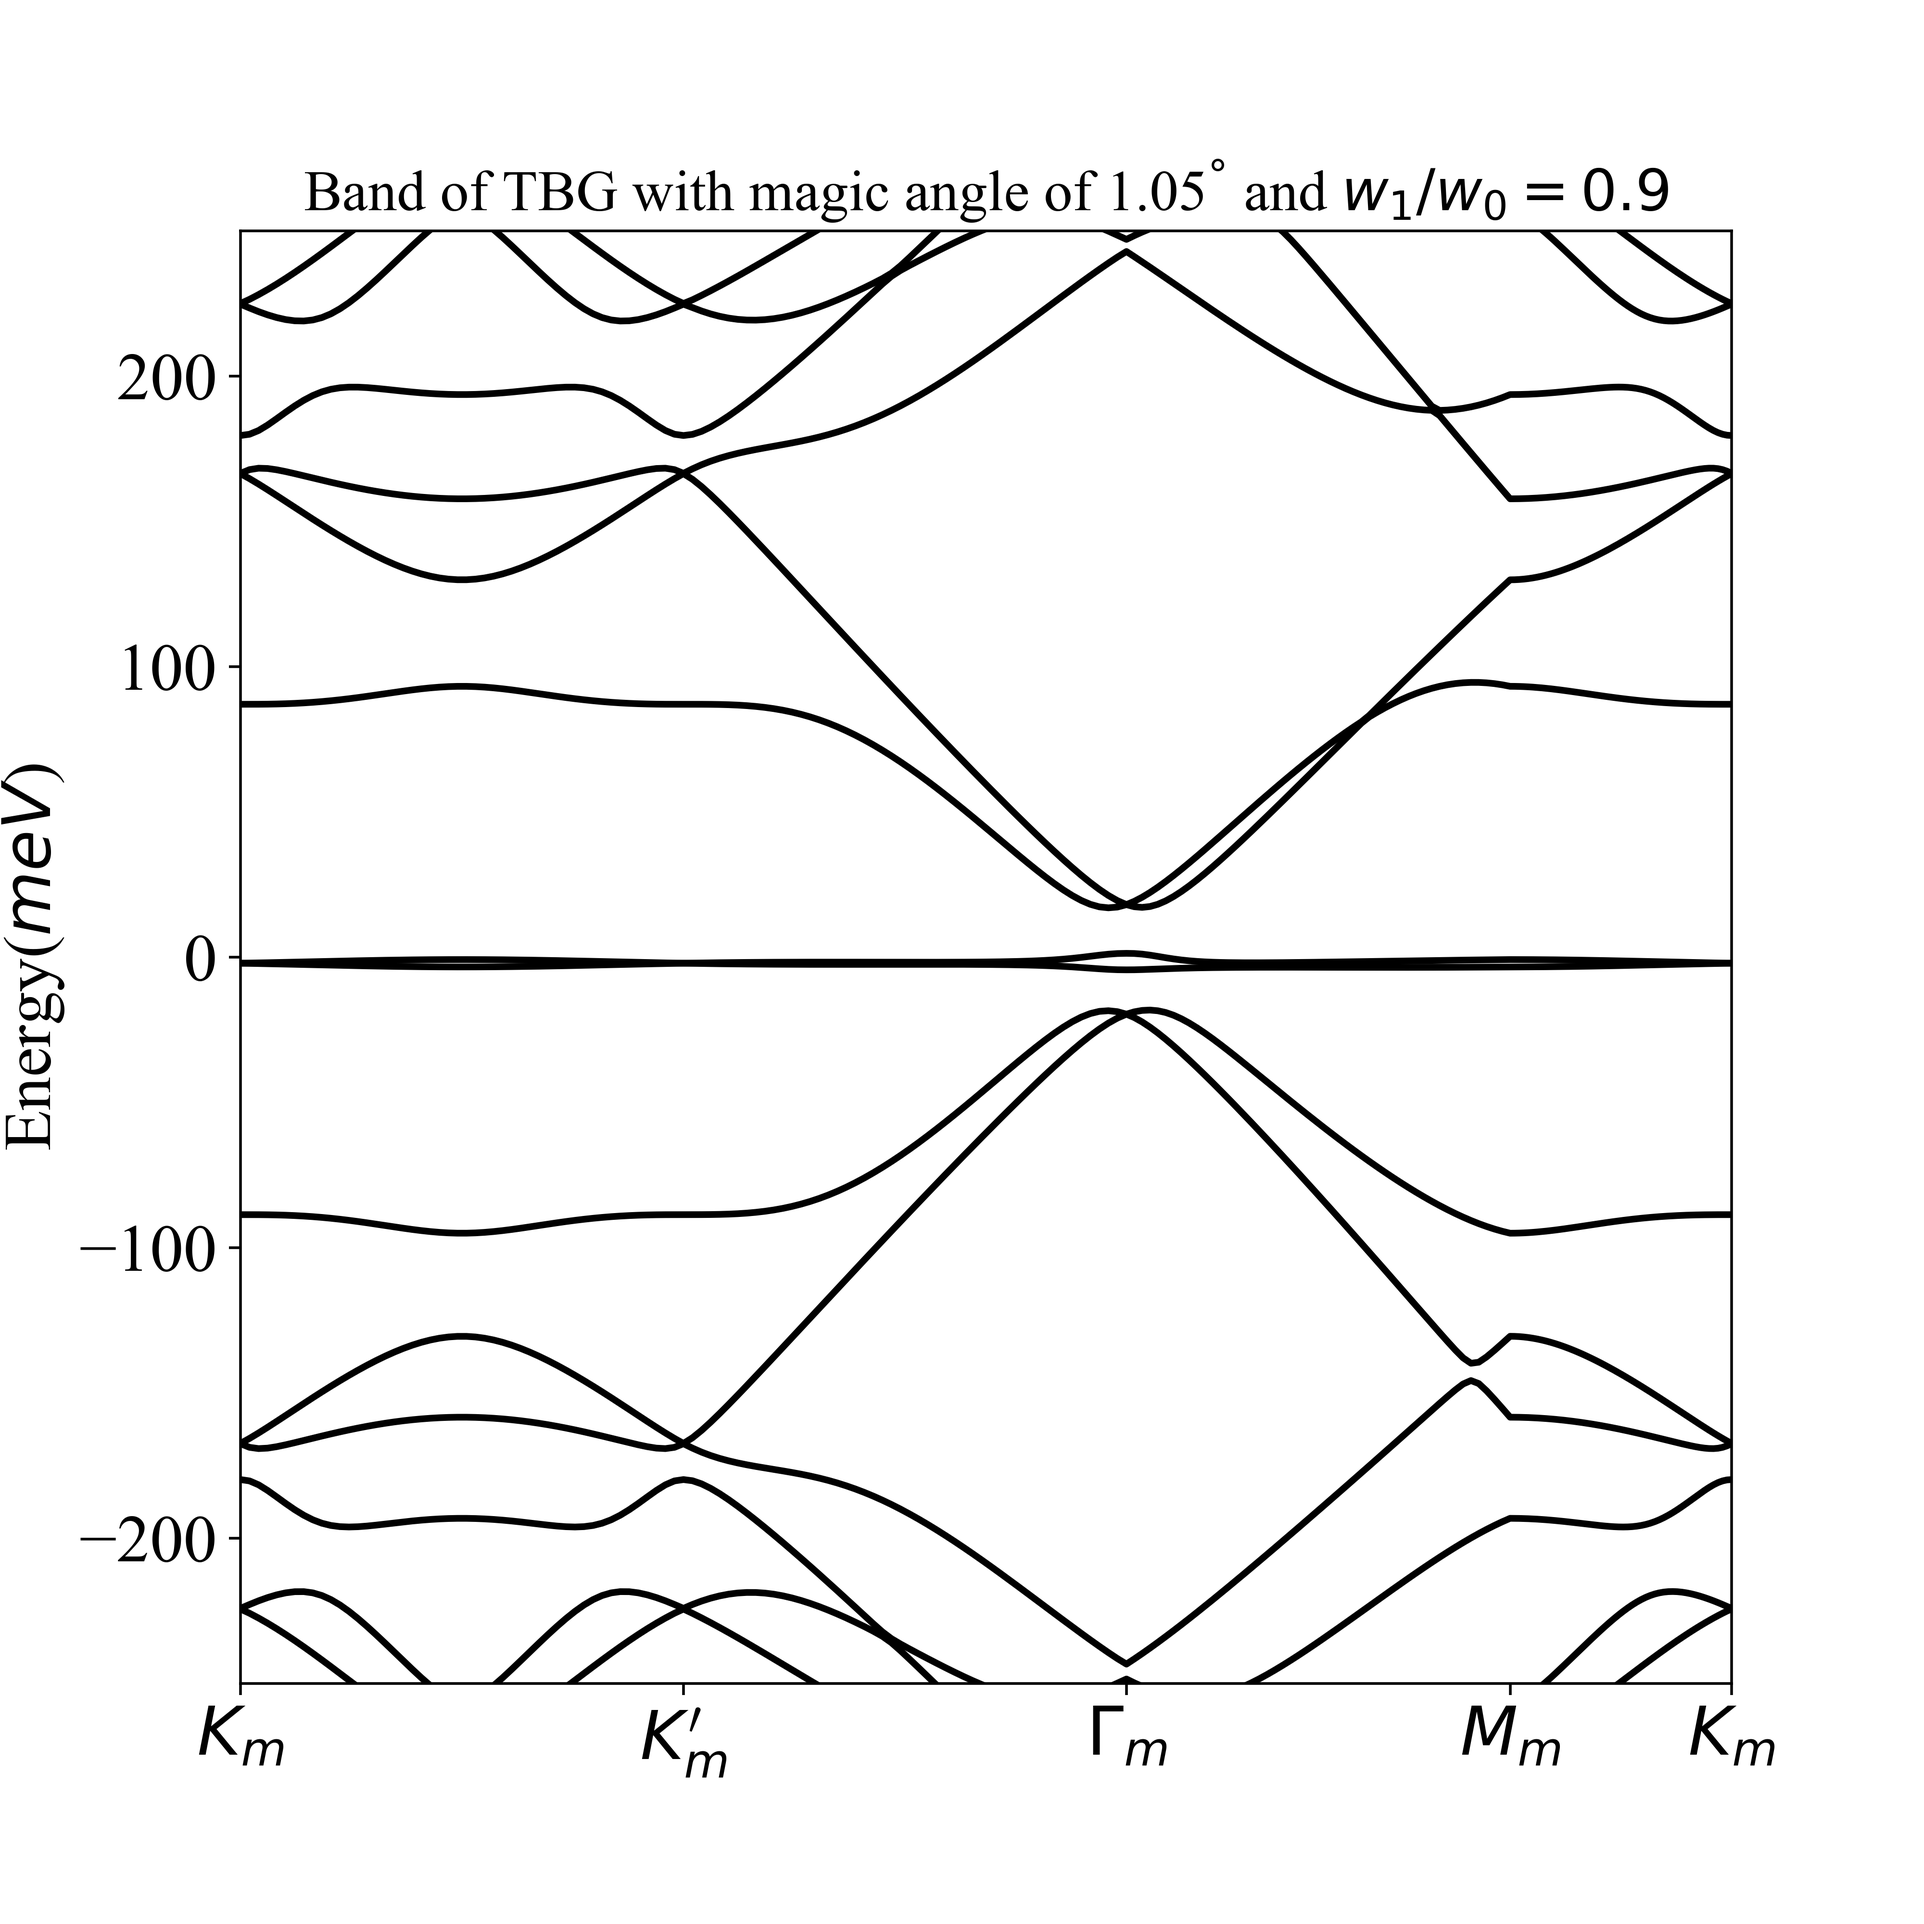
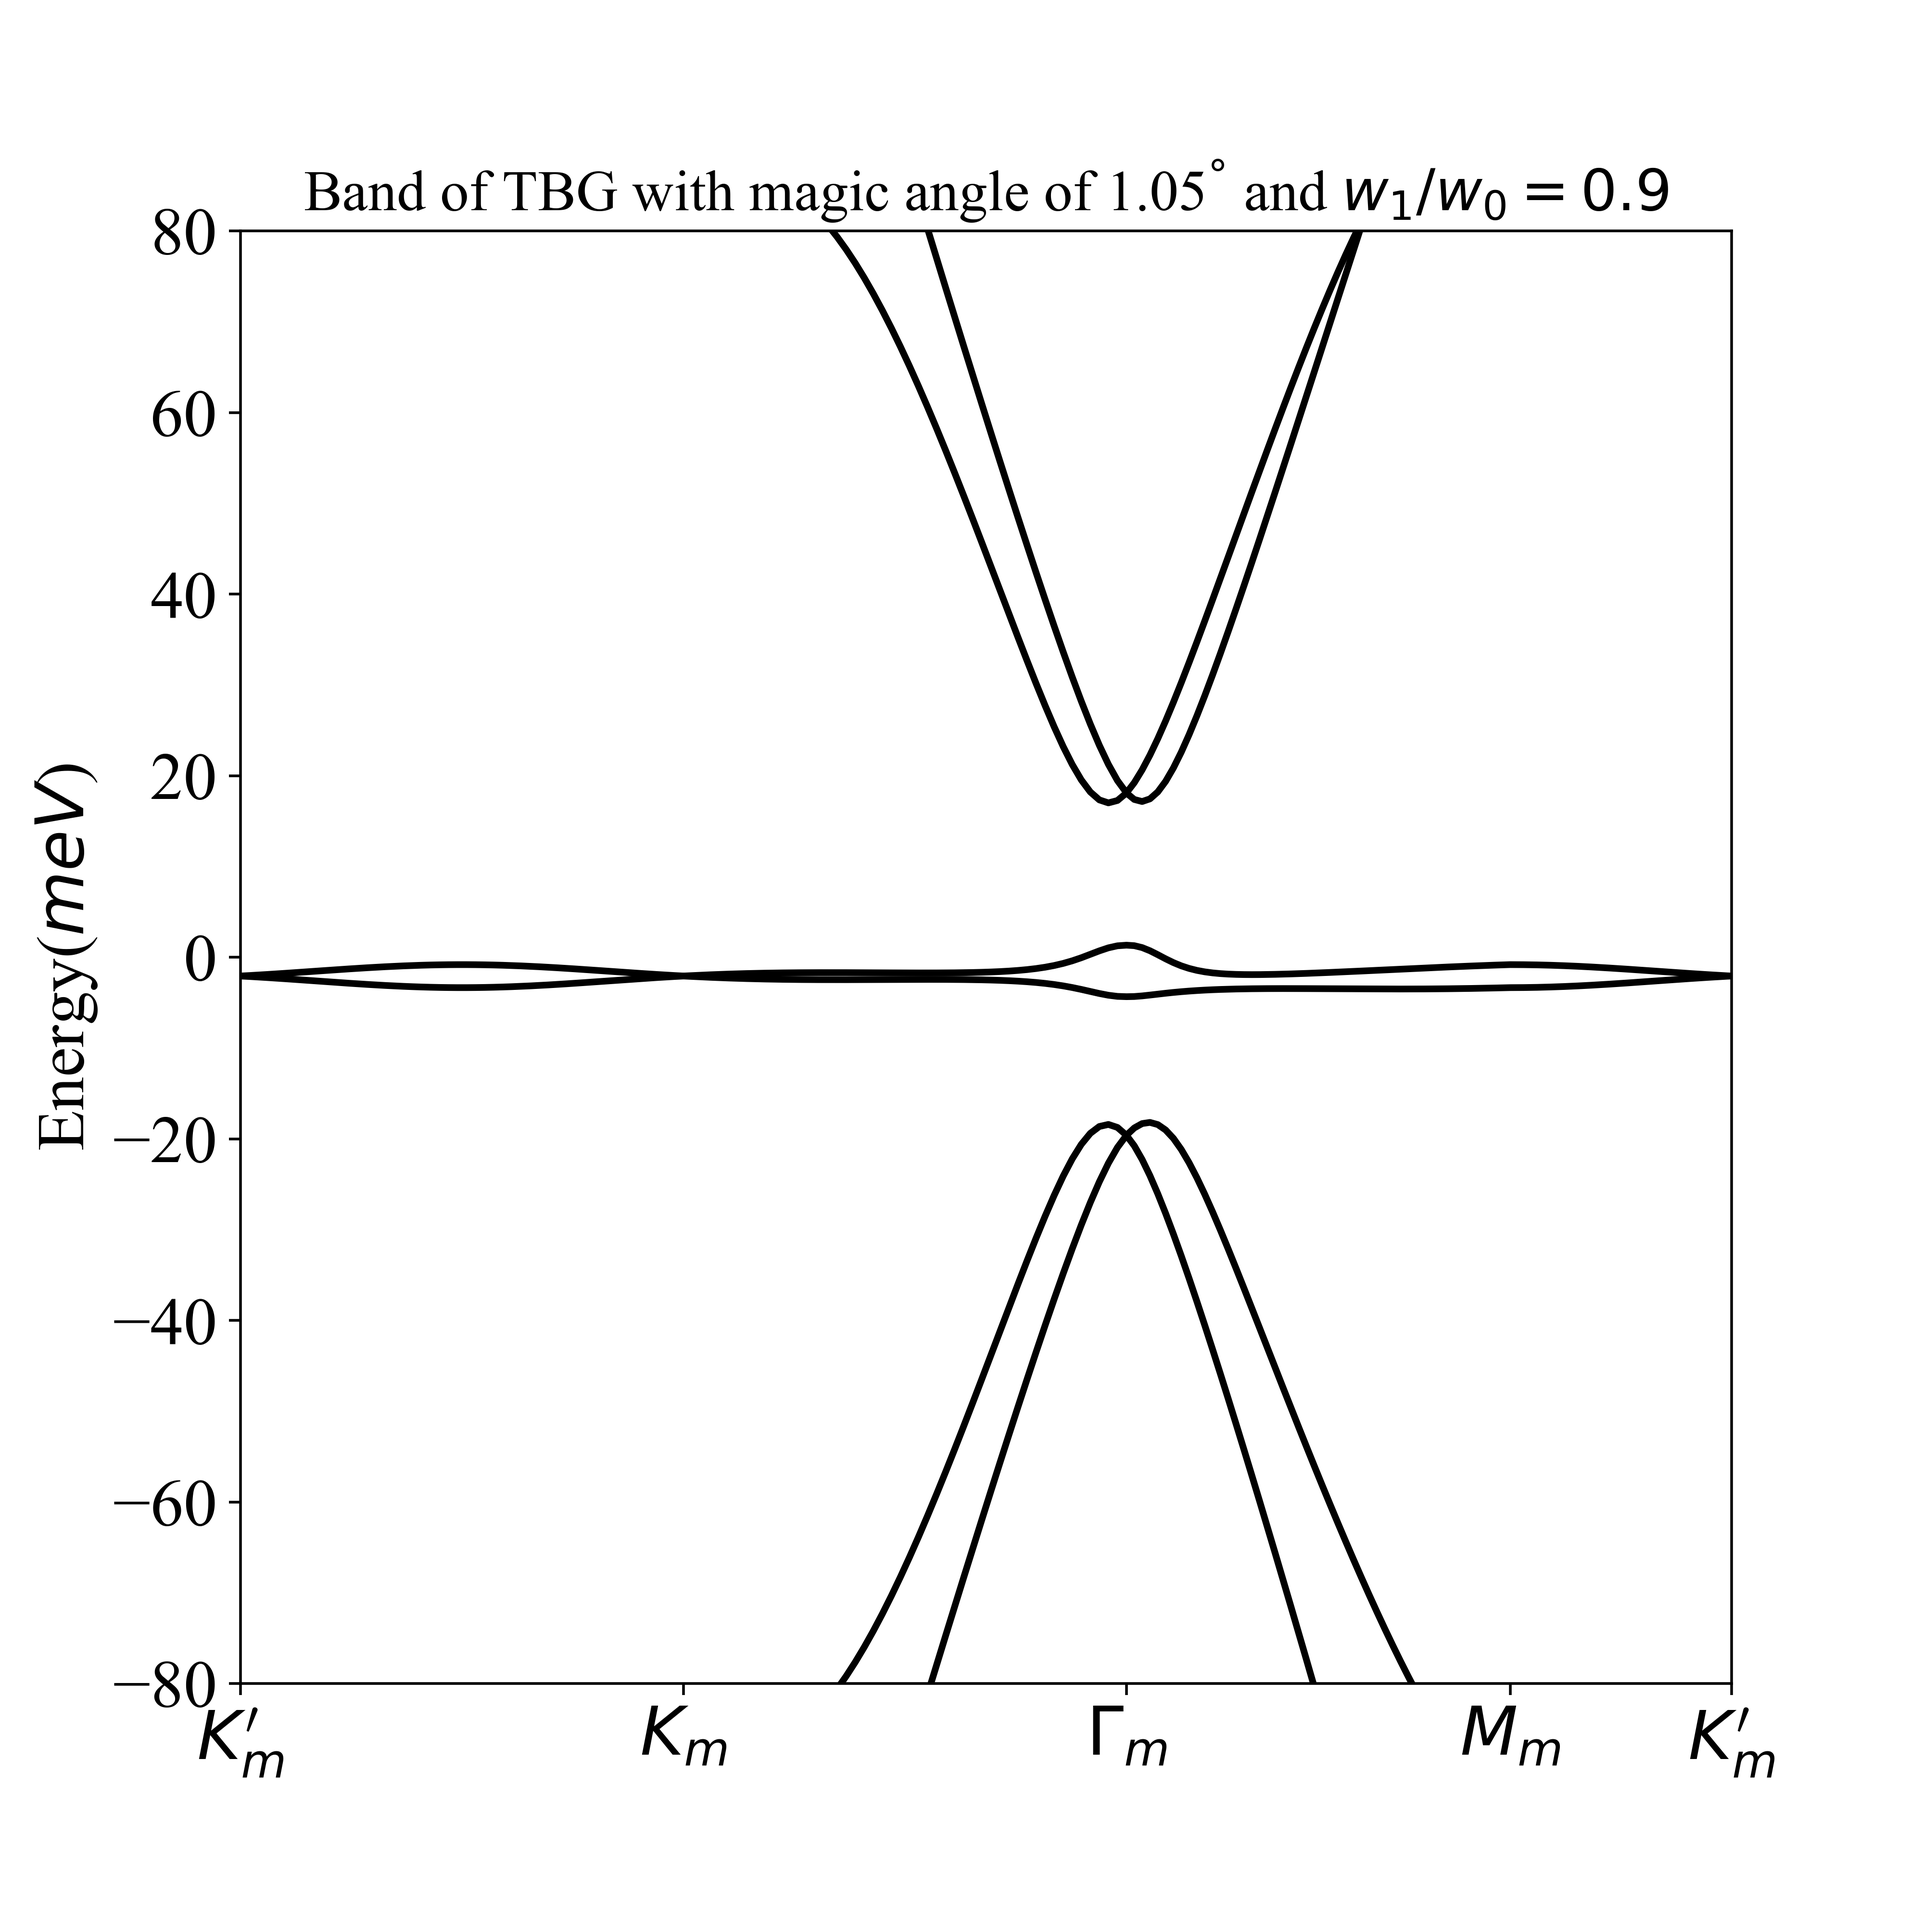
modified plot_band part

diff --git a/plot_band.py b/plot_band.py
@@ -1,6 +1,6 @@
 # -*- coding: utf-8 -*-
 """
-Script for ploting band for MATBG ...
+Module to plot band for MATBG ...
 
 @author: Curry
 """
@@ -8,7 +8,7 @@ Script for ploting band for MATBG ...
 from config import * 
 import numpy as np 
 import matplotlib.pyplot as plt
-from MATTG_Ham import Hamiltonian
+from MATBG_Ham import Hamiltonian
 from k_sym_gen import *
 
 def H(k):
@@ -23,7 +23,10 @@ def band_post():
     for i in range(len(k_point_path)):
         E_values = np.array(list(map(H, k_point_path[i])))
         #print("E_values is:", E_values)
-        E_band.append(E_values)
+        if (len(E_values.shape) < 2):
+            E_band.append((np.reshape(E_values,[E_values.shape[0], -1])))
+        else:
+            E_band.append(E_values)
     
     return np.array(E_band), k_point_path, k_path, Node
 
@@ -35,12 +38,6 @@ def plot_band():
     print("E_band.shape is:", shape) 
         
     plt.figure(1, figsize=(8,8))
-    if len(shape) < 2:
-        eig = np.hstack(tuple(E_band))
-        plt.plot(k_path, eig)
-        #plt.xticks(Node,Node_label)
-        plt.show()   
-        return 
     
     for i in range(shape[-1]):
         eig_test = [] 
@@ -59,10 +56,10 @@ def plot_band():
     plt.yticks(fontproperties = "Times New Roman", fontsize=20)
     #plt.text(0.2,6.1, "(a)", fontsize=20, style= "Times New Roman")
     #plt.text(4.5,5, "$\mathregular{\Delta J_2 / D = 0.1}$", fontdict = font_txt)
-    title = r"Band of TTG with magic angle of {}$^\degree$ and $w_1 / w_0 = {}$".format(theta_v, r1)
+    title = r"Band of TBG with magic angle of {}$^\degree$ and $w_1 / w_0 = {}$".format(theta_v, r1)
     plt.title(title,loc = "center",fontdict={"size":"xx-large","color":"black", "family":"Times New Roman"})
     
-    plt.savefig("./figure/MATTG_{}_{}.png".format(theta_v, r1), dpi=500)
+    plt.savefig("./figure/MATBG_{}_{}.png".format(theta_v, r1), dpi=500)
     
     plt.show()
 

diff --git a/config.py b/config.py
@@ -9,7 +9,7 @@ from numpy import *
 import numpy as np
 
 #define constant
-theta_v  = 1.57          #degree
+theta_v  = 1.05          #degree
 w1  = 110.7          #interlayer hopping term //mev
 r1 = 0.9  # w1/w0 in 1-2 layer
 w0 = w1*(r1)
